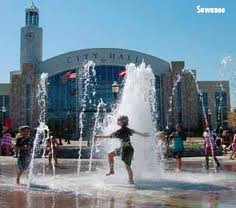
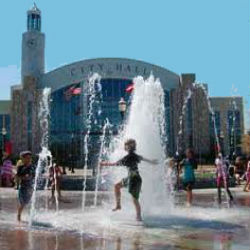
change to gallery pics dimensions 250 x 250

diff --git a/index.html b/index.html
@@ -119,12 +119,12 @@
 				<h2>City Gallery</h2>
 					
 				<ul class="pics">
-				<li><img src="images/AtlSymphonyOrchestra.jpg" width="272" height="185" alt="Atlanta Symphony Orchestra at the Verizon Amphitheatre"/></li>
-				<li><img src="images/cityhall.jpg" width="236" height="208" alt="Children playing in fountain outside of Atlanta City Hall"/></li>
-				<li><img src="images/zoo_atlanta.jpg" width="600" height="400" alt="Entrance of Zoo Atlanta" title="Zoo Atlanta"/></li>
-				<li><img src="images/Atlanta_Ferris_Wheel.jpg" width="719" height="962" alt="Downtown Atlanta's new ferris wheel" /></li>
-				<li><img src="images/Ritz_AtlantaGrill.jpg" width="920" height="518" alt="Ritz Carlton's AtlantaGrill patio overlooking Peachtree Street"/></li>
-				<li><img src="images/cabbagetown.jpg" width="256" height="170" alt="Annual Cabbagetown Block Party"/></li>
+				<li><img src="images/AtlSymphonyOrchestra.jpg" width="250" height="250" alt="Atlanta Symphony Orchestra at the Verizon Amphitheatre"/></li>
+				<li><img src="images/cityhall.jpg" width="250" height="250" alt="Children playing in fountain outside of Atlanta City Hall"/></li>
+				<li><img src="images/zoo_atlanta.jpg" width="250" height="250" alt="Entrance of Zoo Atlanta" title="Zoo Atlanta"/></li>
+				<li><img src="images/Atlanta_Ferris_Wheel.jpg" width="250" height="250" alt="Downtown Atlanta's new ferris wheel" /></li>
+				<li><img src="images/Ritz_AtlantaGrill.jpg" width="250" height="250" alt="Ritz Carlton's AtlantaGrill patio overlooking Peachtree Street"/></li>
+				<li><img src="images/stone_mountain.jpg" width="256" height="170" alt="Annual Cabbagetown Block Party"/></li>
 				</ul>
 			</section>
 			
